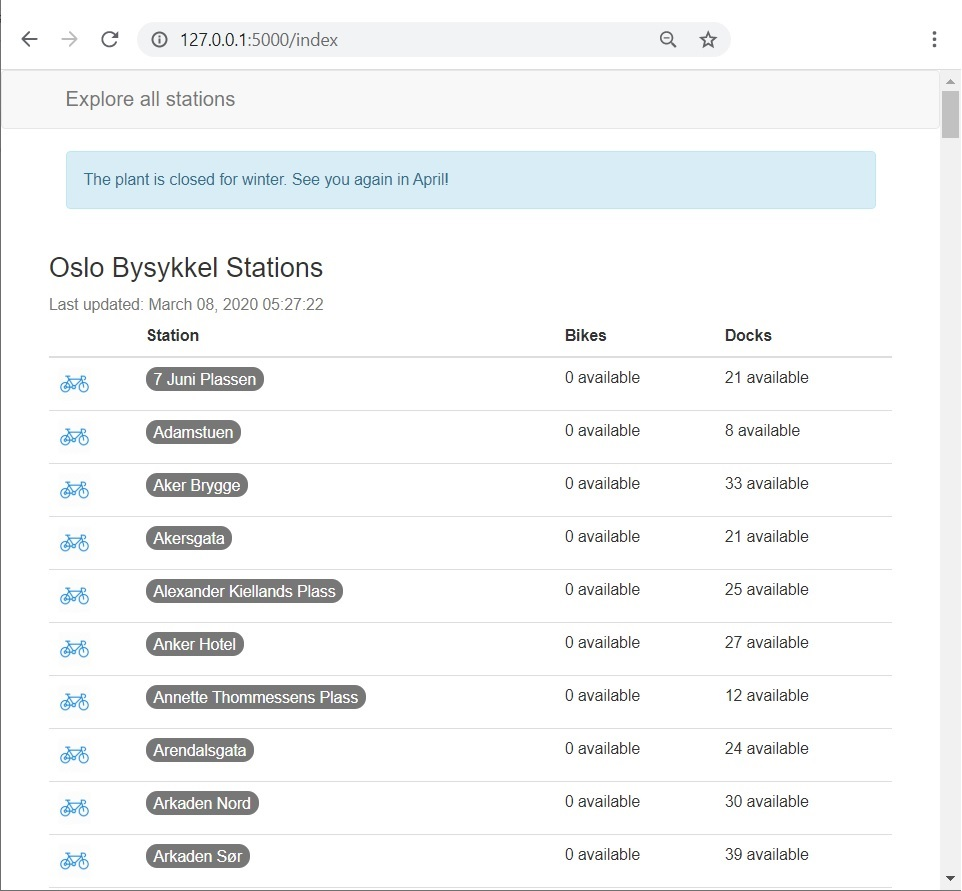
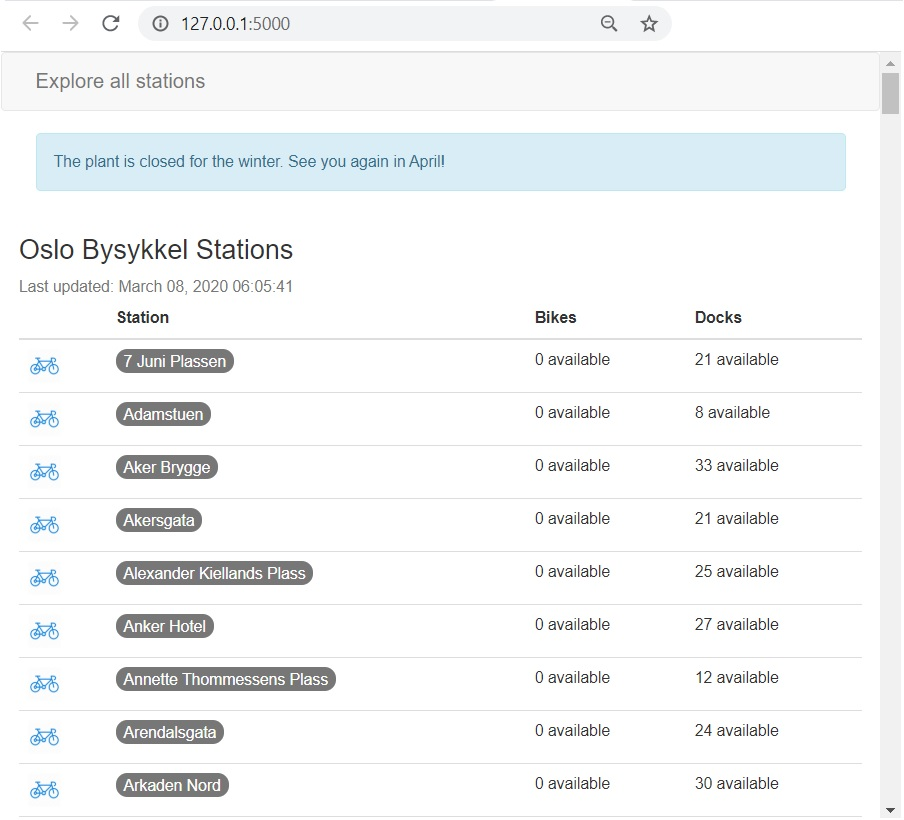
Update documentation

diff --git a/app/main/routes.py b/app/main/routes.py
@@ -12,7 +12,7 @@ def index():
     """
     try:
         stations, last_updated = get_station_data()
-        flash("The plant is closed for winter. See you again in April!")
+        flash("The plant is closed for the winter. See you again in April!")
         return render_template('index.html', stations=stations, last_updated=last_updated)
     except:
         flash("Not possible to retrieve data from the API."

diff --git a/README.md b/README.md
@@ -18,6 +18,7 @@ To update the data, just refresh the browser or click in the _'Explore all the s
 - Web Framework: [Flask](https://www.palletsprojects.com/p/flask/)
 
 <br />
+
 ## How to use it
 
 ```bash
